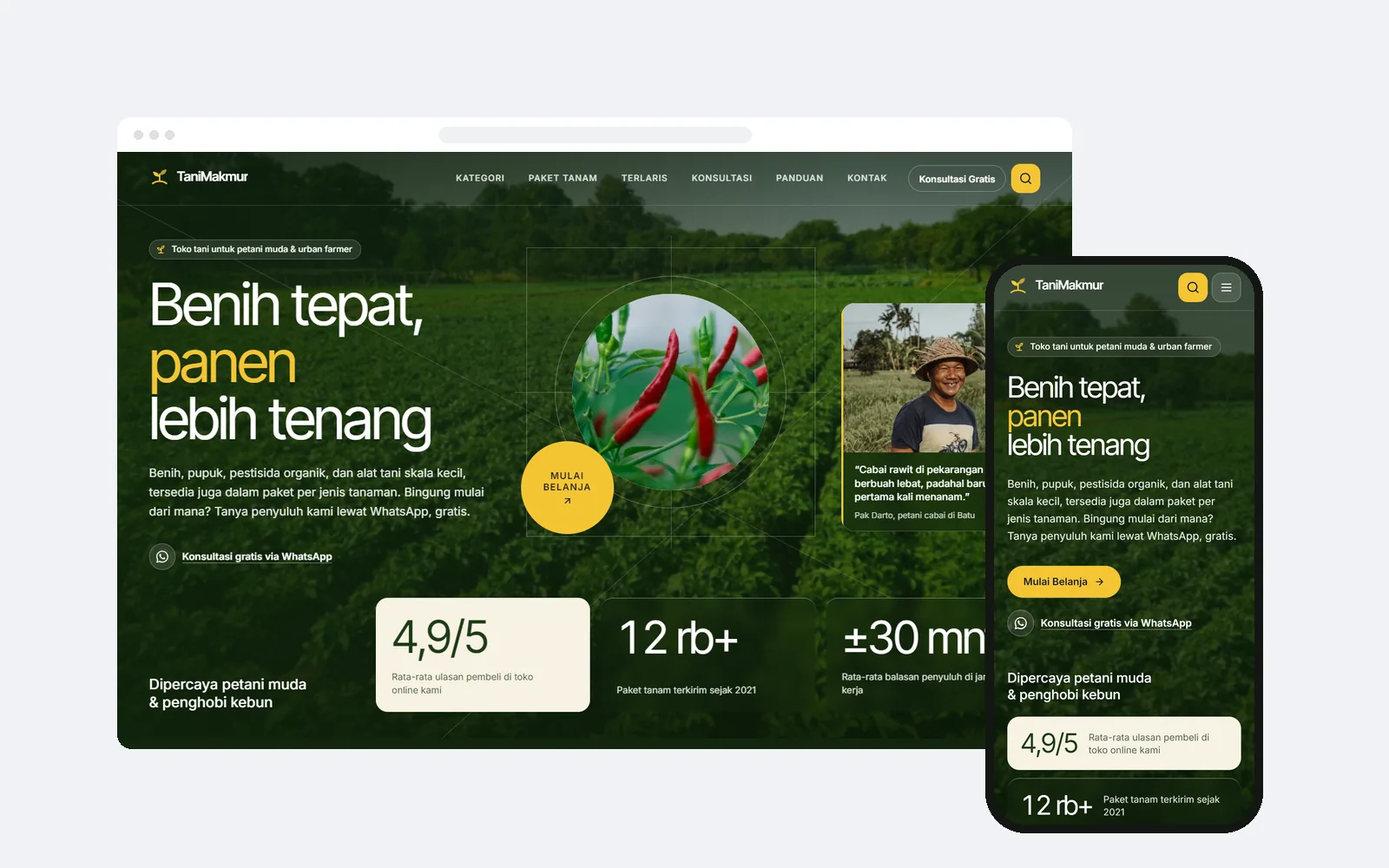
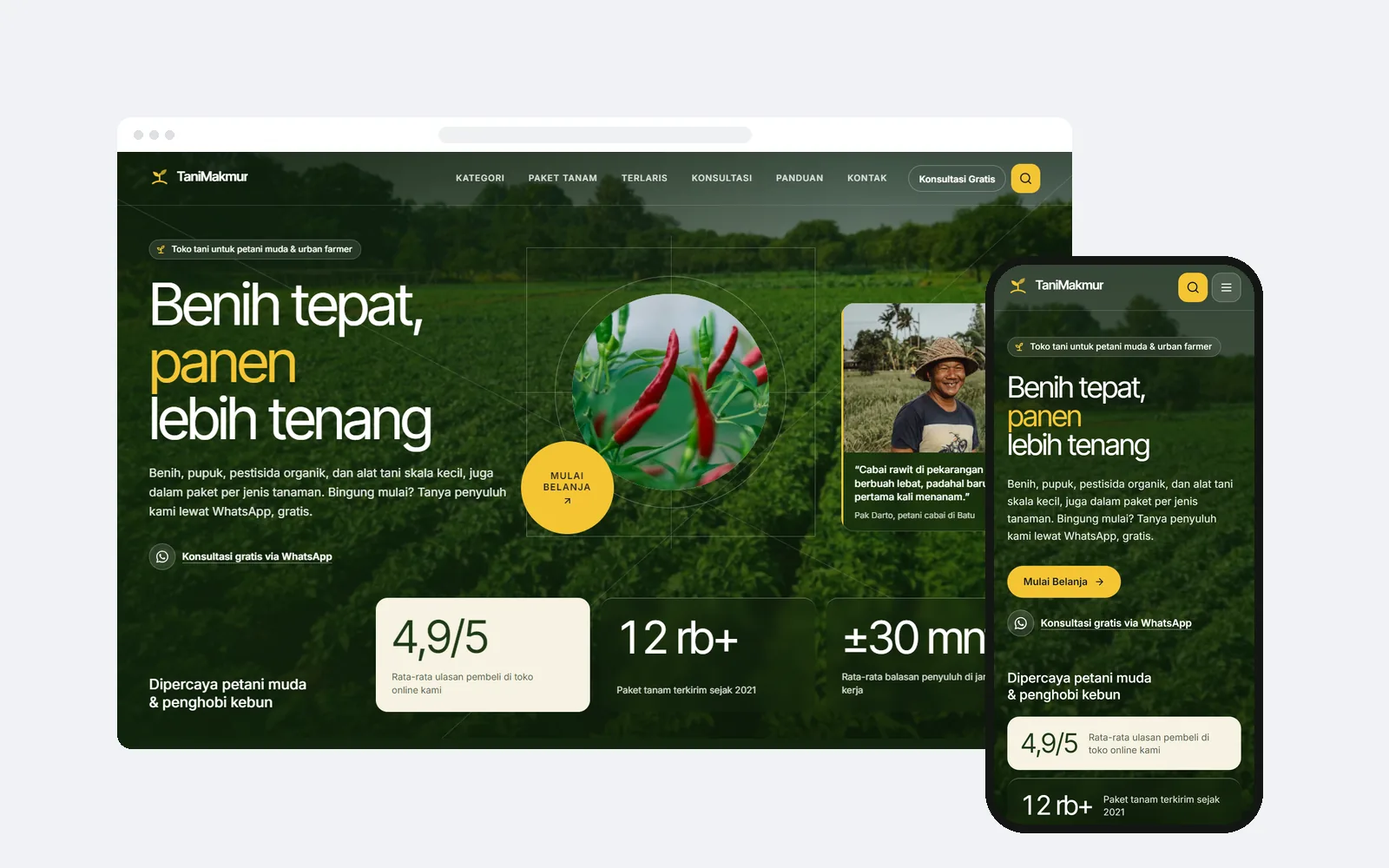
feat(tanimakmur): SEO for the catalog page and the demo site
Catalog page (/template/tanimakmur): primary keyword "template website toko
pertanian" in the title, meta description (with price and the domain, hosting &
SSL line), H1 and lead; "website toko pertanian online", "website toko benih
dan pupuk" and "website toko alat tani" in the body (new FAQ). Niche is now
"toko pertanian online". Copy stays honest: orders and consultation via
WhatsApp, no cart or online payment. 883 words, within 600-900.

Demo site: the default tab title reads "TaniMakmur — Toko tani online: benih,
pupuk & alat tani" (siteHead uses name + tagline, 56 chars) and the meta
description comes from a shorter hero text (154 chars). Testimonial, expert
and quote-card photos get descriptive alt text instead of alt="". Footer
social icons and the fallback crop icon are hidden from screen readers.
Preview image re-shot with the new hero text.

Tests: keyword placement in templatePages.test.ts; demo SEO in
tanimakmur.test.tsx (site title/meta, one H1 and no skipped heading levels,
alt/width/height/srcset/sizes on every image, only the hero eager with
fetchpriority high, decorative SVGs aria-hidden, real hrefs with existing
anchors, buttons only for actions).

Changed region(s): [[0.0938, 0.558, 0.375, 0.62], [0.7188, 0.558, 0.875, 0.62]]

diff --git a/src/content/templates/tanimakmur.content.ts b/src/content/templates/tanimakmur.content.ts
@@ -1,15 +1,15 @@
-// Isi halaman /template/tanimakmur. Sumber fakta: src/templates/tanimakmur (schema.ts, TaniMakmur.tsx, Header.tsx, Hero.tsx,
-// Categories.tsx, Bundles.tsx, Products.tsx, Consult.tsx, Tips.tsx, Faq.tsx, Contact.tsx). Klaim wajib jujur: pemesanan
-// lewat WhatsApp, TANPA keranjang/ongkir otomatis/pembayaran online, tanpa janji hasil panen. Demo: TaniMakmur, Kota Batu
-// (fiktif).
+// Isi halaman /template/tanimakmur (kata kunci: lihat tanimakmur.ts). Sumber fakta: src/templates/tanimakmur (schema.ts,
+// TaniMakmur.tsx, Header.tsx, Hero.tsx, Categories.tsx, Bundles.tsx, Products.tsx, Consult.tsx, Tips.tsx, Faq.tsx,
+// Contact.tsx). Klaim wajib jujur: pemesanan lewat WhatsApp, TANPA keranjang/ongkir otomatis/pembayaran online, tanpa janji
+// hasil panen. Demo: TaniMakmur, Kota Batu (fiktif).
 import type { TemplatePageContent } from './page.types';
 
 export const content: TemplatePageContent = {
   lead:
-    '{nama} adalah template website untuk toko pertanian yang menjual benih, pupuk, pestisida organik, dan alat tani skala kecil, dengan pembeli utama petani muda dan penghobi urban farming. Pembuka foto ladang selebar layar, kategori produk, paket per jenis tanaman, daftar produk terlaris, dan konsultasi lewat WhatsApp sudah tersusun, jadi Anda tinggal mengganti foto, produk, dan harga dengan milik toko sendiri.',
+    '{nama} adalah template website toko pertanian untuk penjual benih, pupuk, pestisida organik, dan alat tani skala kecil, dengan pembeli utama petani muda dan penghobi urban farming. Pembuka foto ladang selebar layar, kategori produk, paket per jenis tanaman, produk terlaris, dan konsultasi lewat WhatsApp sudah tersusun, jadi Anda tinggal mengganti foto, produk, dan harga dengan milik toko sendiri.',
   suitableFor: {
     intro:
-      'Pilih {nama} bila pembeli Anda sering bertanya dulu sebelum membeli: benih apa yang cocok untuk balkon, pupuk mana untuk cabai, atau berapa lama sampai panen. Halaman ini menjawab pertanyaan itu lewat paket per tanaman dan jadwal tanam, lalu mengarahkan pembeli ke WhatsApp. Stok, ongkos kirim, dan pembayaran tetap Anda konfirmasi sendiri di chat; tidak ada keranjang belanja otomatis.',
+      'Pilih {nama} bila Anda ingin membuka website toko pertanian online dan pembeli sering bertanya dulu sebelum membeli: benih apa yang cocok untuk balkon, pupuk mana untuk cabai, atau berapa lama sampai panen. Halaman ini menjawabnya lewat paket per tanaman dan jadwal tanam, lalu mengarahkan pembeli ke WhatsApp. Stok, ongkos kirim, dan pembayaran tetap Anda konfirmasi sendiri di chat; tidak ada keranjang belanja otomatis.',
     items: [
       'Toko benih, pupuk, dan alat tani yang mulai berjualan online di luar marketplace.',
       'Kios saprotan di daerah sentra sayur yang ingin melayani pesanan dari kota lain.',
@@ -20,11 +20,11 @@ export const content: TemplatePageContent = {
   parts: [
     {
       name: 'Menu atas',
-      text: 'Logo atau simbol tunas bawaan, tautan bagian dengan garis bawah warna aksen, tombol konsultasi, dan tombol cari berbentuk kotak; di HP menu dilipat.',
+      text: 'Logo atau simbol tunas bawaan, tautan bagian, tombol konsultasi, dan tombol cari; di HP menu dilipat.',
     },
     {
       name: 'Pencarian di menu',
-      text: 'Pengunjung mengetik kata seperti "kompos" atau "hidroponik" lalu langsung diarahkan ke produk, paket, panduan, atau pertanyaan yang cocok di halaman.',
+      text: 'Pengunjung mengetik kata seperti "kompos" lalu diarahkan ke produk, paket, panduan, atau pertanyaan yang cocok.',
     },
     {
       name: 'Hero (bagian pembuka)',
@@ -32,7 +32,7 @@ export const content: TemplatePageContent = {
     },
     {
       name: 'Kategori',
-      text: 'Hingga 6 kartu kategori bernomor dengan foto dan jumlah produk. Klik kartu menggulir ke produk terlaris dan langsung memfilter kategori yang sama.',
+      text: 'Hingga 6 kartu kategori bernomor dengan foto. Klik kartu menuju produk terlaris yang sudah difilter sesuai kategorinya.',
     },
     {
       name: 'Pilih tanamanmu',
@@ -63,11 +63,11 @@ export const content: TemplatePageContent = {
   cmsNote:
     'Grafik jadwal tanam dibuat otomatis dari teks seperti "Semai | 4", dan selisih hemat dihitung dari harga paket dan harga normal.',
   demo: [
-    'Demo {nama} memakai toko tani fiktif di Kota Batu dengan empat kategori: benih, pupuk, pestisida organik, dan alat tani. Empat paket contoh menunjukkan cara menyusun paket cabai rawit dalam pot, starter kit hidroponik sayur daun, tomat ceri rambat, dan sayur daun cepat panen, masing-masing dengan isi dan jadwal tanamnya.',
-    'Nama pembeli, penyuluh, angka, dan harga di demo hanyalah contoh. Tulis perkiraan panen apa adanya dengan tanda kira-kira, karena hasil tetap bergantung pada cuaca, sinar matahari, dan perawatan. Untuk pestisida, cantumkan dosis dan cara pakai sesuai label kemasan.',
+    'Demo {nama} memakai toko tani fiktif di Kota Batu dengan empat kategori: benih, pupuk, pestisida organik, dan alat tani. Empat paket contoh (cabai rawit dalam pot, kit hidroponik sayur daun, tomat ceri, dan sayur daun) lengkap dengan isi dan jadwal tanamnya.',
+    'Nama pembeli, penyuluh, angka, dan harga di demo hanyalah contoh, dan fotonya dari Unsplash; ganti dengan foto produk dan kios Anda sendiri. Tulis perkiraan panen apa adanya dengan tanda kira-kira, karena hasil tetap bergantung pada cuaca, sinar matahari, dan perawatan. Untuk pestisida, cantumkan dosis dan cara pakai sesuai label kemasan.',
   ],
   custom:
-    '{nama} menampilkan produk dan mengarahkan pembeli ke WhatsApp. Bila toko Anda butuh keranjang belanja, ongkos kirim otomatis, pembayaran online, stok yang terhubung ke gudang, atau aplikasi pencatatan kebun untuk pelanggan, fitur itu termasuk website atau aplikasi custom. Ceritakan alur pesanan di toko Anda, lalu kami kirim penawaran setelah konsultasi gratis.',
+    '{nama} menampilkan produk dan mengarahkan pembeli ke WhatsApp. Bila toko Anda butuh keranjang belanja, ongkos kirim otomatis, pembayaran online, atau stok yang terhubung ke gudang, fitur itu termasuk website atau aplikasi custom. Ceritakan alur pesanan di toko Anda, lalu kami kirim penawaran setelah konsultasi gratis.',
   mobileLink: true,
   faq: [
     {
@@ -91,9 +91,9 @@ export const content: TemplatePageContent = {
         'Ganti judulnya menjadi konsultasi dengan admin atau pemilik toko, atau sembunyikan bagian itu dari CMS. Daftar penyuluh, contoh percakapan, dan langkah konsultasi semuanya opsional.',
     },
     {
-      question: 'Apakah foto di demo boleh saya pakai?',
+      question: 'Bisakah dipakai untuk website toko alat tani atau website toko benih dan pupuk saja?',
       answer:
-        'Foto demo berasal dari Unsplash dan hanya contoh suasana. Sebaiknya ganti dengan foto produk, kebun, dan kios Anda sendiri lewat CMS supaya pembeli melihat barang yang sebenarnya.',
+        'Bisa. Kategori, produk, dan paket mengikuti barang yang Anda jual, misalnya hanya alat tani dan perlengkapan hidroponik, atau hanya benih dan pupuk. Bagian Pilih tanamanmu bisa disembunyikan dari CMS bila toko Anda tidak menjual paket per tanaman.',
     },
   ],
   imageAlts: {

diff --git a/src/templates/__tests__/tanimakmur.test.tsx b/src/templates/__tests__/tanimakmur.test.tsx
@@ -5,7 +5,8 @@
 // hero ladang dengan menu transparan, foto bulat + lingkaran ajakan, kartu angka, strip keunggulan, kategori → filter
 // produk, pilih tanamanmu, produk terlaris, konsultasi, panduan, testimoni, FAQ, kontak, footer), pencarian di menu,
 // konten opsional kosong, pratinjau CMS diam, editor CMS, data katalog (migrasi 020 + seed + gambar pratinjau), dan
-// konten aneh.
+// konten aneh. SEO situs demo (situs calon pembeli): judul & meta default, satu H1 dan urutan heading, alt semua gambar,
+// SVG dekoratif tersembunyi, tautan asli, hero eager + fetchpriority, sisanya lazy dengan srcset/sizes/width/height.
 import { existsSync, readFileSync, statSync } from 'node:fs';
 import { resolve } from 'node:path';
 import { act, cleanup, fireEvent, render, within } from '@testing-library/react';
@@ -15,6 +16,7 @@ import { SectionEditor } from '../../pages/account/cms/SectionEditor';
 import { validateContent } from '../../pages/account/cms/validation';
 import { TEMPLATES, resolveContent } from '../index';
 import { SiteRenderer } from '../SiteRenderer';
+import { applySiteHead, siteTitle } from '../siteHead';
 import { contrast, parseHex } from '../shared/utils';
 import { cropKey, iconKey } from '../tanimakmur/icons';
 import {
@@ -420,6 +422,71 @@ describe('TaniMakmur: demo', RENDER, () => {
     const container = demo();
     const shadows = Array.from(container.querySelectorAll('[class*="shadow"]')).filter((el) => !/Chat WhatsApp/.test(el.getAttribute('aria-label') ?? ''));
     expect(shadows.map((el) => el.className)).toEqual([]);
+  });
+});
+
+describe('TaniMakmur: SEO situs demo', RENDER, () => {
+  it('judul tab & meta description bawaan terbaca seperti toko tani (≤ 60 / ≤ 160 karakter), lalu dipulihkan', () => {
+    expect(siteTitle('tanimakmur', null)).toBe('TaniMakmur — Toko tani online: benih, pupuk & alat tani');
+    expect(siteTitle('tanimakmur', null).length).toBeLessThanOrEqual(60);
+    document.title = 'Sebelum';
+    const restore = applySiteHead('tanimakmur', null);
+    expect(document.title).toBe(siteTitle('tanimakmur', null));
+    const description = document.head.querySelector('meta[name="description"]')?.getAttribute('content') ?? '';
+    expect(description).toBe(def.defaultContent.hero.subtitle);
+    expect(description.length).toBeLessThanOrEqual(160);
+    expect(description).toMatch(/^Benih, pupuk, pestisida organik, dan alat tani/);
+    restore();
+    expect(document.title).toBe('Sebelum');
+  });
+
+  it('satu H1, heading berurutan tanpa loncat level, setiap section isi punya H2', () => {
+    const container = demo();
+    const levels = Array.from(container.querySelectorAll('h1, h2, h3, h4, h5, h6')).map((h) => Number(h.tagName[1]));
+    expect(levels.filter((l) => l === 1)).toHaveLength(1);
+    expect(levels[0]).toBe(1);
+    levels.forEach((level, i) => {
+      if (i > 0) expect(level, `heading ke-${i + 1}`).toBeLessThanOrEqual(levels[i - 1] + 1);
+    });
+    for (const key of ORDER.filter((k) => k !== 'hero')) expect(section(container, key).querySelector('h2'), key).not.toBeNull();
+  });
+
+  it('gambar: alt deskriptif di semua foto, hero eager + fetchpriority, sisanya lazy dengan srcset, sizes, width & height', () => {
+    const container = demo();
+    const images = Array.from(container.querySelectorAll('img'));
+    expect(images.length).toBeGreaterThanOrEqual(20);
+    for (const img of images) {
+      const src = img.getAttribute('src');
+      expect(img.getAttribute('alt')?.trim().length, `alt ${src}`).toBeGreaterThan(8);
+      expect(Number(img.getAttribute('width')), `width ${src}`).toBeGreaterThan(0);
+      expect(Number(img.getAttribute('height')), `height ${src}`).toBeGreaterThan(0);
+      expect(img.getAttribute('srcset'), `srcset ${src}`).toMatch(/ \d+w, .+ \d+w$/);
+      expect(img.getAttribute('sizes'), `sizes ${src}`).toBeTruthy();
+    }
+    const eager = images.filter((img) => img.getAttribute('loading') === 'eager');
+    expect(eager.map((img) => img.getAttribute('src'))).toEqual(['/assets/templates/photos/tanimakmur-hero-1920.webp']);
+    expect(eager[0]).toHaveAttribute('fetchpriority', 'high');
+    expect(images.filter((img) => img !== eager[0]).every((img) => img.getAttribute('loading') === 'lazy')).toBe(true);
+    // Avatar testimoni & penyuluh memakai alt foto (bukan alt kosong)
+    expect(section(container, 'testimonials').querySelector('img')?.getAttribute('alt')).toMatch(/^Potret /);
+  });
+
+  it('SVG dekoratif tersembunyi dari pembaca layar; tautan asli dengan href, anchor section ada; tombol hanya untuk aksi', () => {
+    const container = demo();
+    for (const svg of container.querySelectorAll('svg')) {
+      expect(svg.closest('[aria-hidden="true"]'), svg.outerHTML.slice(0, 80)).not.toBeNull();
+    }
+    const links = Array.from(container.querySelectorAll('a'));
+    for (const a of links) {
+      const href = a.getAttribute('href') ?? '';
+      expect(href, a.textContent ?? '').not.toBe('');
+      expect(href).not.toBe('#');
+      if (href.startsWith('#')) expect(document.getElementById(href.slice(1)), href).not.toBeNull();
+    }
+    for (const button of container.querySelectorAll('button')) {
+      expect(button.getAttribute('type')).toBe('button');
+      expect((button.getAttribute('aria-label') ?? button.textContent ?? '').trim(), button.outerHTML.slice(0, 80)).not.toBe('');
+    }
   });
 });
 

diff --git a/src/templates/tanimakmur/Consult.tsx b/src/templates/tanimakmur/Consult.tsx
@@ -9,12 +9,12 @@ import { CONTAINER } from '../shared/layout';
 import { stagger } from '../shared/motion';
 import { ActionLink, TemplateSection } from '../shared/Shell';
 import { field, hasImage, list, resolveAction, text } from '../shared/utils';
-import { KitAvatar, KitPhoto } from '../kit/Photo';
+import { KitPhoto } from '../kit/Photo';
 import { FieldLines, LeafArt } from './marks';
 import type { TaniModel } from './model';
 import { TANI_PHOTOS } from './photos';
 import { BTN, CARD, TYPE_T } from './styles';
-import { Highlighted, SectionLabel } from './ui';
+import { Highlighted, PersonPhoto, SectionLabel } from './ui';
 
 /** Gelembung chat contoh. `overlay`: menumpang di bagian bawah foto (layar lebar); selain itu di bawah foto (HP). */
 function ChatBubbles({ m, overlay }: { m: TaniModel; overlay: boolean }) {
@@ -36,7 +36,7 @@ function ChatBubbles({ m, overlay }: { m: TaniModel; overlay: boolean }) {
       )}
       {answer && (
         <div className="flex max-w-[92%] items-end gap-2">
-          {expert && <KitAvatar name={field(expert, 'name')} photo={field(expert, 'photo')} sizes="36px" className="h-9 w-9 ring-2 ring-white" />}
+          {expert && <PersonPhoto name={field(expert, 'name')} photo={field(expert, 'photo')} sizes="36px" className="h-9 w-9 ring-2 ring-white" />}
           <p className="rounded-[18px] rounded-bl-[6px] bg-white px-4 py-2.5 text-[14px] leading-snug text-[#111B21]">
             <span className="block text-[12px] font-semibold text-[#1E3A16]">{expert ? field(expert, 'name') : 'Penyuluh'}</span>
             {answer}
@@ -104,7 +104,7 @@ export function Consult({ m }: { m: TaniModel }) {
                   {experts.map((item, i) => (
                     <Reveal as="li" key={`${field(item, 'name')}-${i}`} delay={stagger(i, 80)} className="flex min-w-0 items-center gap-3 rounded-full bg-white/[0.08] py-2 pl-2 pr-5 ring-1 ring-inset ring-white/15">
                       <span className="relative shrink-0">
-                        <KitAvatar name={field(item, 'name')} photo={field(item, 'photo')} sizes="44px" className="h-11 w-11" />
+                        <PersonPhoto name={field(item, 'name')} photo={field(item, 'photo')} />
                         <span aria-hidden className="absolute bottom-0 right-0 h-3 w-3 rounded-full bg-[#4ADE80] ring-2 ring-[#1E3A16]" />
                       </span>
                       <span className="min-w-0">

diff --git a/src/templates/tanimakmur/schema.ts b/src/templates/tanimakmur/schema.ts
@@ -48,7 +48,11 @@ export const taniSections: TemplateSection[] = [
     description: 'Nama toko, logo, dan warna aksen (lingkaran ajakan di hero, tombol pesan, bintang ulasan, label).',
     fields: [
       t('company_name', 'Nama toko', { placeholder: 'mis. TaniMakmur', maxLength: 80 }),
-      t('tagline', 'Tagline', { placeholder: 'mis. Benih, pupuk & alat tani untuk panen yang lebih tenang', maxLength: 100, help: 'Tampil di footer dan judul tab browser.' }),
+      t('tagline', 'Tagline', {
+        placeholder: 'mis. Toko tani online: benih, pupuk & alat tani',
+        maxLength: 100,
+        help: 'Tampil di footer dan judul tab browser (juga judul di hasil Google). Sebut jenis toko dan kota, total dengan nama toko ± 60 karakter.',
+      }),
       img('logo', 'Logo', 'PNG/SVG berlatar transparan, maks. 2 MB. Kosongkan untuk memakai simbol tunas bawaan template dan nama toko.'),
       {
         type: 'color',
@@ -68,7 +72,11 @@ export const taniSections: TemplateSection[] = [
       t('eyebrow', 'Label kecil di atas judul', { placeholder: 'mis. Toko tani untuk petani muda & urban farmer', maxLength: 60, help: 'Kosongkan untuk menyembunyikan.' }),
       t('title', 'Judul utama', { placeholder: 'mis. Benih tepat, panen lebih tenang', maxLength: 60, help: 'Paling bagus 3–5 kata pendek (± 20–40 karakter).' }),
       t('highlight', 'Kata yang disorot', { placeholder: 'mis. panen', maxLength: 30, help: 'Bagian judul yang diberi warna aksen. Tulis persis seperti di judul, atau kosongkan.' }),
-      ta('subtitle', 'Deskripsi', { placeholder: 'Jelaskan singkat apa yang toko Anda jual.', maxLength: 220 }),
+      ta('subtitle', 'Deskripsi', {
+        placeholder: 'Jelaskan singkat apa yang toko Anda jual.',
+        maxLength: 220,
+        help: 'Juga dipakai sebagai deskripsi situs di hasil Google; paling bagus ≤ 160 karakter.',
+      }),
       t('primary_label', 'Teks lingkaran ajakan', { placeholder: 'mis. Mulai Belanja', maxLength: 22, help: 'Tampil di lingkaran warna aksen di samping foto bulat. Paling bagus 1–2 kata.' }),
       url('primary_url', 'Tautan lingkaran ajakan', { help: 'Kosongkan untuk menuju bagian Produk terlaris.' }),
       t('secondary_label', 'Teks tautan konsultasi', { placeholder: 'mis. Konsultasi gratis via WhatsApp', maxLength: 40, help: 'Tautan berikon WhatsApp di bawah deskripsi. Kosongkan untuk menyembunyikan.' }),

diff --git a/src/templates/tanimakmur/ui.tsx b/src/templates/tanimakmur/ui.tsx
@@ -4,9 +4,11 @@
 import { ArrowRight, Sprout, Star } from 'lucide-react';
 import type { ReactNode } from 'react';
 import { ActionLink } from '../shared/Shell';
-import { splitHighlight, type LinkAction } from '../shared/utils';
+import { hasImage, initials, splitHighlight, type LinkAction } from '../shared/utils';
+import { KitPhoto } from '../kit/Photo';
 import { CROP_ICONS, ICONS, cropKey, iconKey } from './icons';
 import { formatRating } from './model';
+import { TANI_PHOTOS } from './photos';
 
 /** Label section: pil kecil dengan tunas (latar krem/putih) atau pil kaca (di atas foto & panel hijau tua). */
 export function SectionLabel({ children, tone = 'light', className = '' }: { children: ReactNode; tone?: 'light' | 'white' | 'dark'; className?: string }) {
@@ -72,7 +74,26 @@ export function TitleIcon({ title, index = 0, className = 'h-5 w-5' }: { title: 
 /** Ikon tanaman (cabai, tomat, hidroponik, sayur daun, tunas). Dekoratif. */
 export function CropIcon({ name, className = 'h-5 w-5' }: { name: string; className?: string }) {
   const Icon = CROP_ICONS[cropKey(name)];
-  return <Icon className={className} />;
+  return (
+    <span aria-hidden className="contents">
+      <Icon className={className} />
+    </span>
+  );
+}
+
+/**
+ * Foto bulat orang (testimoni, penyuluh) dengan alt deskriptif: alt foto demo, selain itu "Foto {nama}". Tanpa foto →
+ * inisial (dekoratif, nama sudah tertulis di sampingnya).
+ */
+export function PersonPhoto({ name, photo, sizes = '44px', className = 'h-11 w-11' }: { name: string; photo: string; sizes?: string; className?: string }) {
+  if (!hasImage(photo)) {
+    return (
+      <span aria-hidden className={`flex shrink-0 items-center justify-center rounded-full bg-[#ECE6CF] text-[13px] font-semibold text-[#1E3A16] ${className}`}>
+        {initials(name, '?')}
+      </span>
+    );
+  }
+  return <KitPhoto src={photo} alt={TANI_PHOTOS.alt(photo, name ? `Foto ${name}` : 'Foto pelanggan')} sizes={sizes} className={`shrink-0 rounded-full ${className}`} />;
 }
 
 /** Lima bintang terisi sesuai rating (dibulatkan ke 0,5), dengan label untuk pembaca layar. */

diff --git a/src/content/__tests__/templatePages.test.ts b/src/content/__tests__/templatePages.test.ts
@@ -134,6 +134,23 @@ describe('src/content/templates', () => {
     expect(tani).toMatch(/bergantung pada cuaca/);
   });
 
+  it('TaniMakmur: kata kunci "template website toko pertanian" di judul, meta, H1, dan pembuka; turunannya di isi', () => {
+    const t = bySlug('tanimakmur');
+    const c = templateContent('tanimakmur') as TemplatePageContent;
+    const keyword = 'template website toko pertanian';
+    expect(templateTitle(t).toLowerCase()).toContain(keyword);
+    expect(templateDescription(t).toLowerCase()).toContain(keyword);
+    expect(templateDescription(t)).toContain('Rp1.590.000');
+    expect(templateH1(t).toLowerCase()).toContain(keyword);
+    expect(fillName(c.lead, t).toLowerCase()).toContain(keyword);
+    const text = visibleText(c).toLowerCase();
+    for (const secondary of ['website toko pertanian online', 'website toko benih dan pupuk', 'website toko alat tani']) expect(text).toContain(secondary);
+    // Fitur sesuai demo: pesan & konsultasi lewat WhatsApp, tanpa keranjang/checkout/pembayaran online yang sungguhan
+    expect(text).toMatch(/tidak ada keranjang belanja otomatis/);
+    expect(text).not.toMatch(/\bcheckout otomatis|\bpayment gateway|\bbayar online di website/);
+    expect(TEMPLATE_COPY.tanimakmur.updated).toBe('2026-10-25');
+  });
+
   it('alt gambar hanya untuk file yang ada, memakai nama template dari DB, dan cadangan alt untuk gambar lain', () => {
     for (const slug of SLUGS) {
       const c = templateContent(slug) as TemplatePageContent;

diff --git a/src/content/templates/tanimakmur.ts b/src/content/templates/tanimakmur.ts
@@ -1,4 +1,6 @@
 // TaniMakmur: salinan SEO & H1 (pola Lampiran A). Isi panjang halaman: tanimakmur.content.ts.
+// Kata kunci utama "template website toko pertanian" (judul, meta, H1, lead); turunan di isi: "website toko pertanian
+// online", "website toko benih dan pupuk", "website toko alat tani" (diuji di src/content/__tests__/templatePages.test.ts).
 // Jujur: pemesanan lewat WhatsApp, template ini TIDAK punya keranjang, ongkir otomatis, atau pembayaran online, dan tidak
 // menjanjikan hasil panen.
 import type { TemplateSeoCopy } from '../../seo/templateSeo';
@@ -6,13 +8,14 @@ import type { TemplatePageCopy } from './page.types';
 
 export const seo: TemplateSeoCopy = {
   title: '{nama}: Template Website Toko Pertanian – {harga_singkat}',
-  description: 'Website toko tani: benih, pupuk & paket per tanaman, pesan via WhatsApp. {harga} sudah termasuk domain, hosting & SSL tahun pertama. Lihat demo.',
-  niche: 'Toko Pertanian',
+  description:
+    'Template website toko pertanian: benih, pupuk, alat tani & paket per tanaman via WhatsApp. {harga} sudah termasuk domain, hosting & SSL tahun pertama.',
+  niche: 'Toko Pertanian Online',
   // Isi halaman (tanimakmur.ts, tanimakmur.content.ts) terakhir diubah: lastmod sitemap
   updated: '2026-10-25',
 };
 
 export const page: TemplatePageCopy = {
   h1: '{nama}: Template Website Toko Pertanian & Urban Farming',
-  niche: 'toko pertanian',
+  niche: 'toko pertanian online',
 };

diff --git a/src/templates/tanimakmur/Testimonials.tsx b/src/templates/tanimakmur/Testimonials.tsx
@@ -7,10 +7,9 @@ import { CONTAINER, SECTION_Y } from '../shared/layout';
 import { stagger } from '../shared/motion';
 import { TemplateSection } from '../shared/Shell';
 import { field, list, text } from '../shared/utils';
-import { KitAvatar } from '../kit/Photo';
 import { parseRating, type TaniModel } from './model';
 import { C, TYPE_T } from './styles';
-import { SectionLabel, Stars } from './ui';
+import { PersonPhoto, SectionLabel, Stars } from './ui';
 
 export function Testimonials({ m }: { m: TaniModel }) {
   const { testimonials } = m;
@@ -65,7 +64,7 @@ export function Testimonials({ m }: { m: TaniModel }) {
                 )}
                 {(field(item, 'name') || field(item, 'role')) && (
                   <div className={`mt-6 flex items-center gap-3 border-t pt-6 ${dark ? 'border-white/15' : 'border-[#18230F]/[0.08]'}`}>
-                    <KitAvatar name={field(item, 'name')} photo={field(item, 'photo')} sizes="44px" className="h-11 w-11" />
+                    <PersonPhoto name={field(item, 'name')} photo={field(item, 'photo')} />
                     <div className="min-w-0">
                       {field(item, 'name') && <p className={`truncate text-[15px] font-semibold ${dark ? 'text-white' : 'text-[#18230F]'}`}>{field(item, 'name')}</p>}
                       {field(item, 'role') && <p className={`truncate text-[13px] ${dark ? 'text-white/75' : C.muted}`}>{field(item, 'role')}</p>}

diff --git a/src/templates/tanimakmur/defaultContent.ts b/src/templates/tanimakmur/defaultContent.ts
@@ -11,7 +11,8 @@ export const TANI_ACCENT = '#F4C534';
 export const taniContent: SiteContent = {
   brand: {
     company_name: 'TaniMakmur',
-    tagline: 'Benih, pupuk & alat tani untuk panen yang lebih tenang',
+    // Judul tab situs = "Nama — Tagline" (siteHead.ts), jadi tagline ditulis seperti toko tani dan ≤ 60 karakter total
+    tagline: 'Toko tani online: benih, pupuk & alat tani',
     logo: '',
     accent_color: TANI_ACCENT,
   },
@@ -20,8 +21,9 @@ export const taniContent: SiteContent = {
     eyebrow: 'Toko tani untuk petani muda & urban farmer',
     title: 'Benih tepat, panen lebih tenang',
     highlight: 'panen',
+    // Juga meta description situs (siteHead.ts): ≤ 160 karakter
     subtitle:
-      'Benih, pupuk, pestisida organik, dan alat tani skala kecil, tersedia juga dalam paket per jenis tanaman. Bingung mulai dari mana? Tanya penyuluh kami lewat WhatsApp, gratis.',
+      'Benih, pupuk, pestisida organik, dan alat tani skala kecil, juga dalam paket per jenis tanaman. Bingung mulai? Tanya penyuluh kami lewat WhatsApp, gratis.',
     primary_label: 'Mulai Belanja',
     primary_url: '',
     secondary_label: 'Konsultasi gratis via WhatsApp',

diff --git a/src/templates/tanimakmur/Hero.tsx b/src/templates/tanimakmur/Hero.tsx
@@ -63,7 +63,9 @@ function QuoteCard({ m }: { m: TaniModel }) {
     <figure className="relative w-full max-w-[300px] overflow-hidden rounded-[20px] bg-[#13260E]/60 ring-1 ring-inset ring-white/20 backdrop-blur-md">
       {/* Garis aksen tegak di tepi kiri kartu (referensi: garis kuning di samping kartu foto) */}
       <span aria-hidden className="absolute inset-y-0 left-0 z-10 w-[3px] bg-(--tpl-accent)" />
-      {hasImage(image) && <KitPhoto src={image} alt="" fallback="none" sizes="300px" className="aspect-[4/3]" />}
+      {hasImage(image) && (
+        <KitPhoto src={image} alt={TANI_PHOTOS.alt(image, name || `Pelanggan ${m.companyName}`)} fallback="none" sizes="300px" className="aspect-[4/3]" />
+      )}
       <figcaption className="p-4 pl-5">
         {quote && <blockquote className="text-[15px] font-medium leading-snug text-white">“{quote}”</blockquote>}
         {name && <p className="mt-2 text-[12.5px] leading-snug text-white/80">{name}</p>}

diff --git a/src/templates/tanimakmur/Footer.tsx b/src/templates/tanimakmur/Footer.tsx
@@ -56,7 +56,9 @@ export function Footer({ m }: { m: TaniModel }) {
                       aria-label={label}
                       className="flex h-11 w-11 items-center justify-center rounded-full bg-white/[0.08] text-white ring-1 ring-inset ring-white/15 transition-colors hover:bg-(--tpl-accent) hover:text-(--tpl-on-accent)"
                     >
-                      <Icon className="h-[18px] w-[18px]" />
+                      <span aria-hidden>
+                        <Icon className="h-[18px] w-[18px]" />
+                      </span>
                     </ActionLink>
                   </li>
                 ))}
